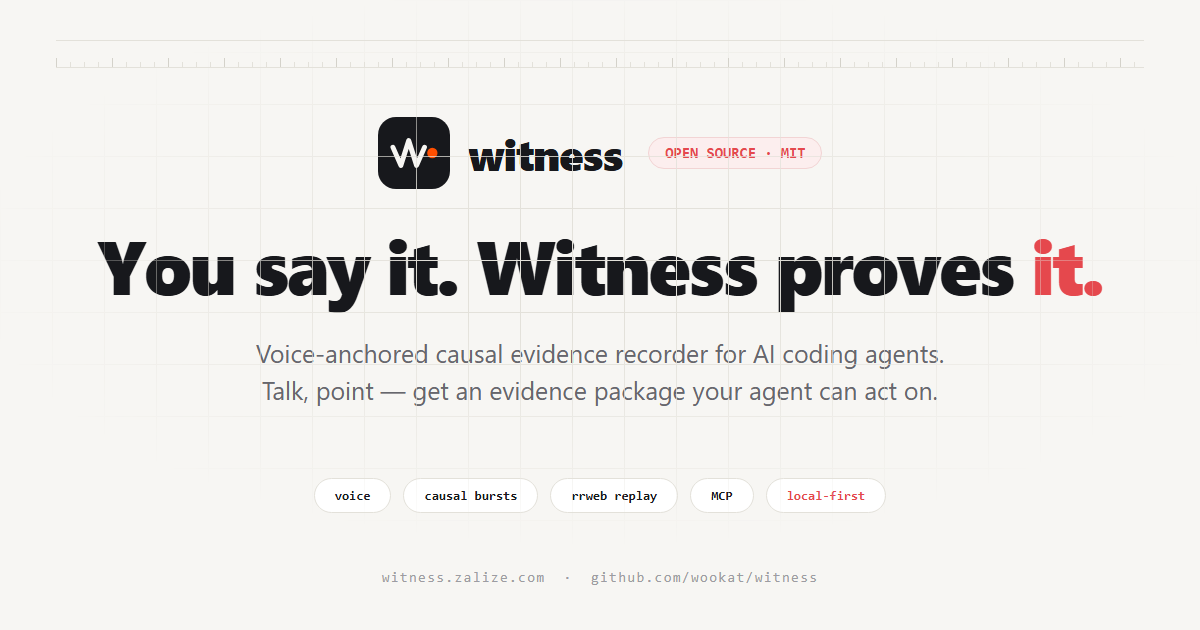
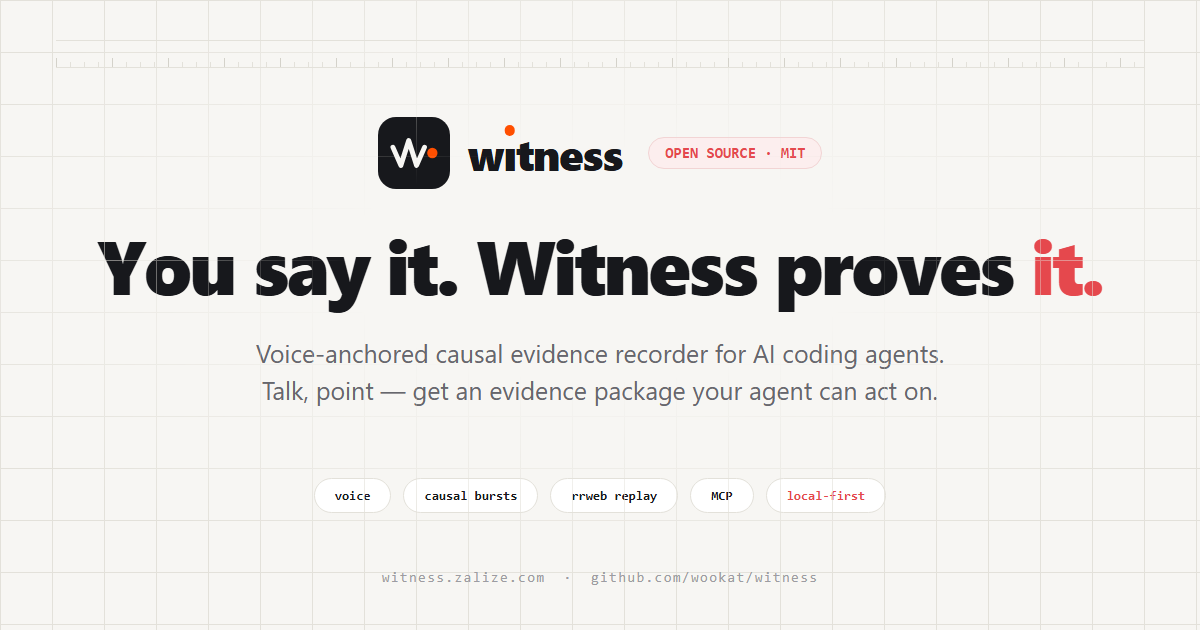
OG cards: clear grid under copy, designed wıtness wordmark, zh variant
- Grid mask was inverted (most opaque at center, over the lockup) —
  now transparent under the text block, fading in at edges
- Wordmark renders the real logo: w + dotless ı + red dot + tness
- render-og.mjs parameterizes copy; emits og.png (en) + og-zh.png (中文)
- README.zh-CN.md uses the Chinese card

Generated with [Devin](https://devin.ai)

diff --git a/README.zh-CN.md b/README.zh-CN.md
@@ -1,5 +1,5 @@
 <div align="center">
-  <a href="https://witness.zalize.com"><img src="docs/og.png" alt="Witness — 你开口，Witness 补全证据。" width="760"></a>
+  <a href="https://witness.zalize.com"><img src="docs/og-zh.png" alt="Witness — 你开口，Witness 补全证据。" width="760"></a>
   <br><br>
   <a href="https://github.com/wookat/witness/stargazers"><img src="https://img.shields.io/github/stars/wookat/witness?style=flat-square&color=ff4f00" alt="GitHub stars"></a>
   <a href="LICENSE"><img src="https://img.shields.io/badge/license-MIT-17181c?style=flat-square" alt="MIT license"></a>
